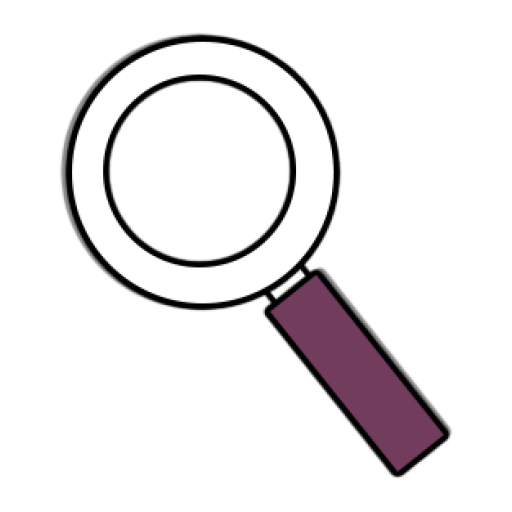
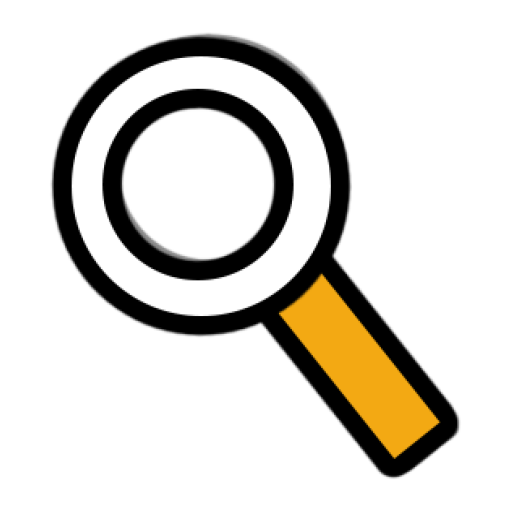
[호근]디자인적용중

Changed region(s): [[0.0938, 0.0625, 0.9062, 0.9375]]

diff --git a/app/src/main/java/com/hodo/jjamtalk/MainActivity.java b/app/src/main/java/com/hodo/jjamtalk/MainActivity.java
@@ -419,7 +419,7 @@ public class MainActivity extends AppCompatActivity {
         });
 
         iv_honeybox = (ImageView)findViewById(R.id.iv_honeybox);
-        iv_honeybox.setColorFilter(ContextCompat.getColor(getApplicationContext(),R.color.postBox), PorterDuff.Mode.MULTIPLY);
+        //iv_honeybox.setColorFilter(ContextCompat.getColor(getApplicationContext(),R.color.postBox), PorterDuff.Mode.MULTIPLY);
         iv_honeybox.setOnClickListener(new View.OnClickListener() {
             @Override
             public void onClick(View view) {
